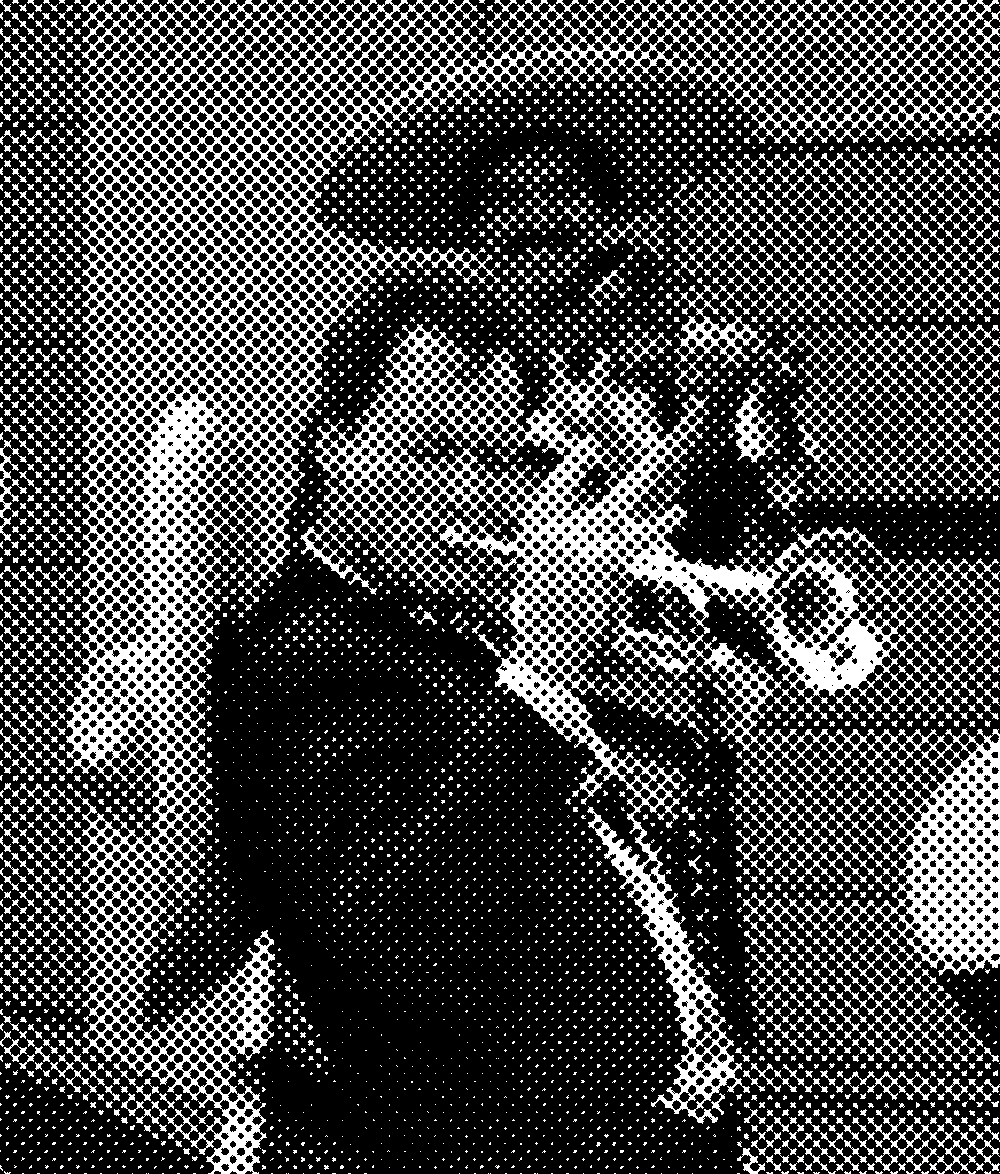
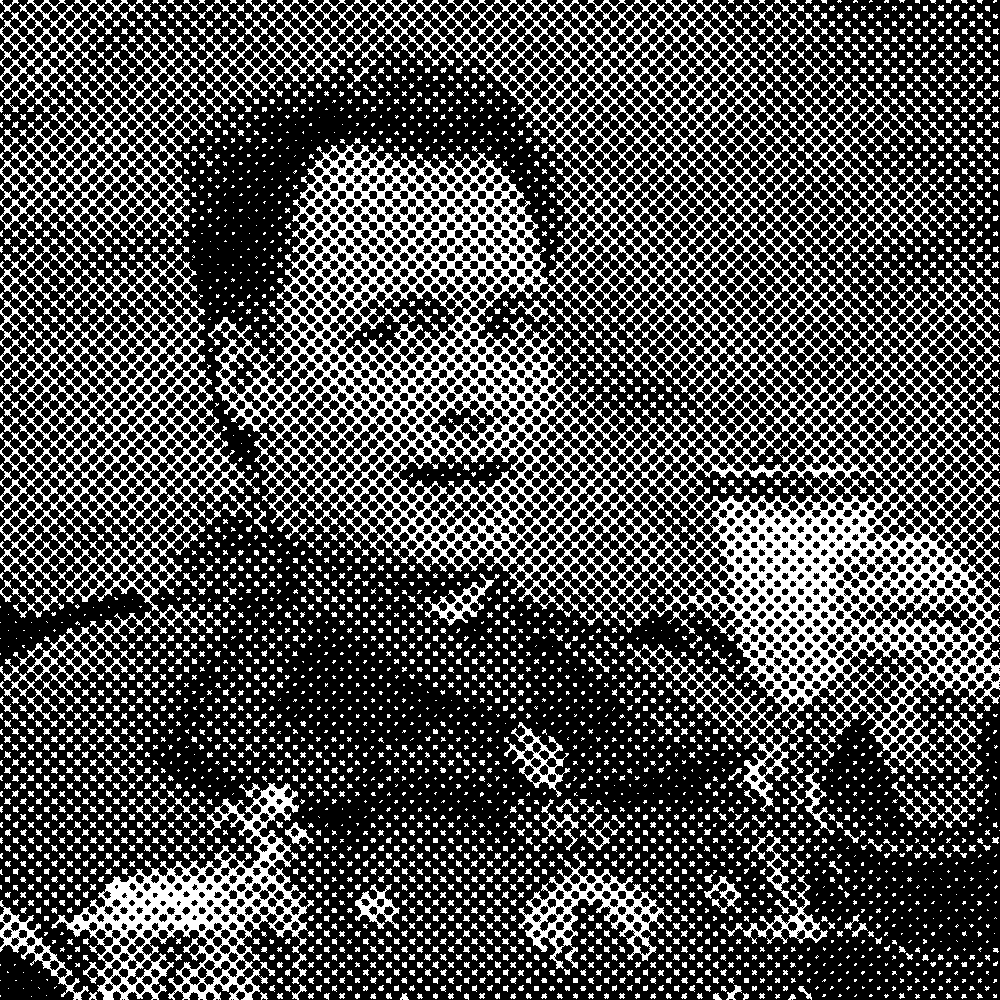
Swapped image

diff --git a/news/q-of-q-continuum-behind-qanon.md b/news/q-of-q-continuum-behind-qanon.md
@@ -5,7 +5,7 @@ date: 2020-09-16
 description: In a classic case of mischief making, it turns out the Q behind QAnon is none other than Q of the Q Continuum, The Whale-Lines can reveal.
 angle: -0.3
 image: /images/story-images/q-of-q-continuum-behind-qanon.png
-imageAlt: Q of the Q Continuum playing trumpet with a Mexican band
+imageAlt: Q of the Q Continuum enjoying a drink
 
 ---
 
